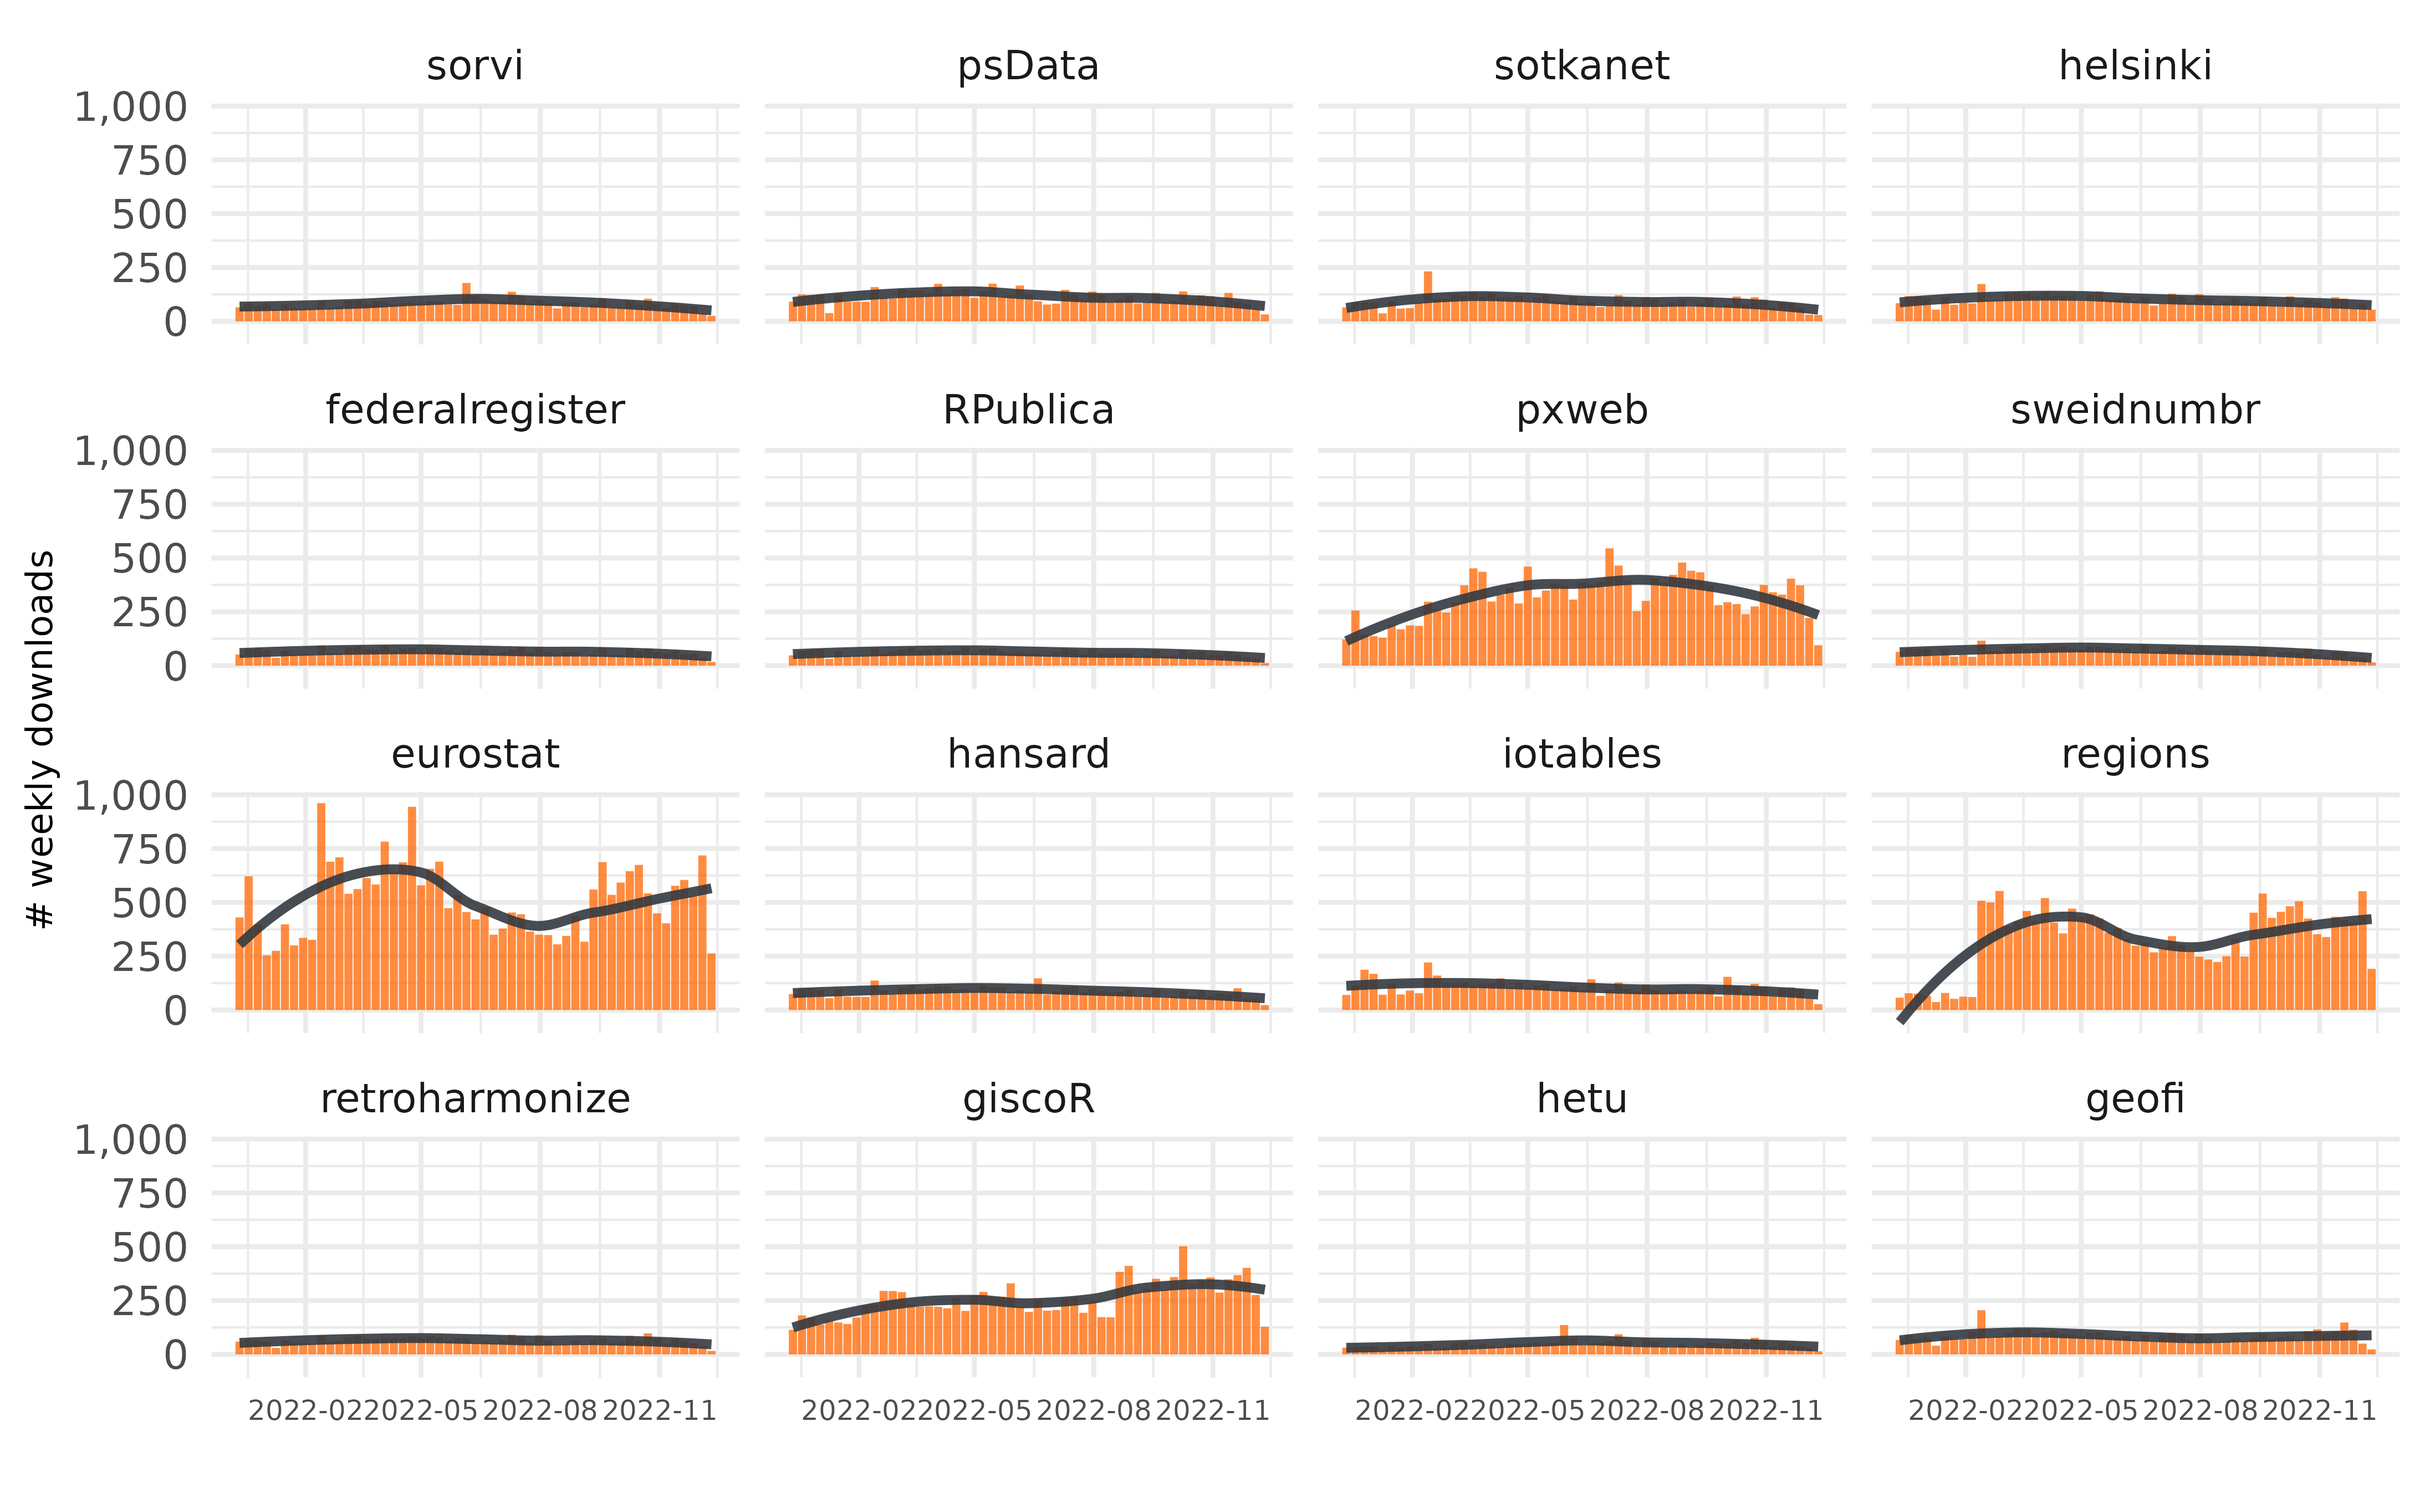
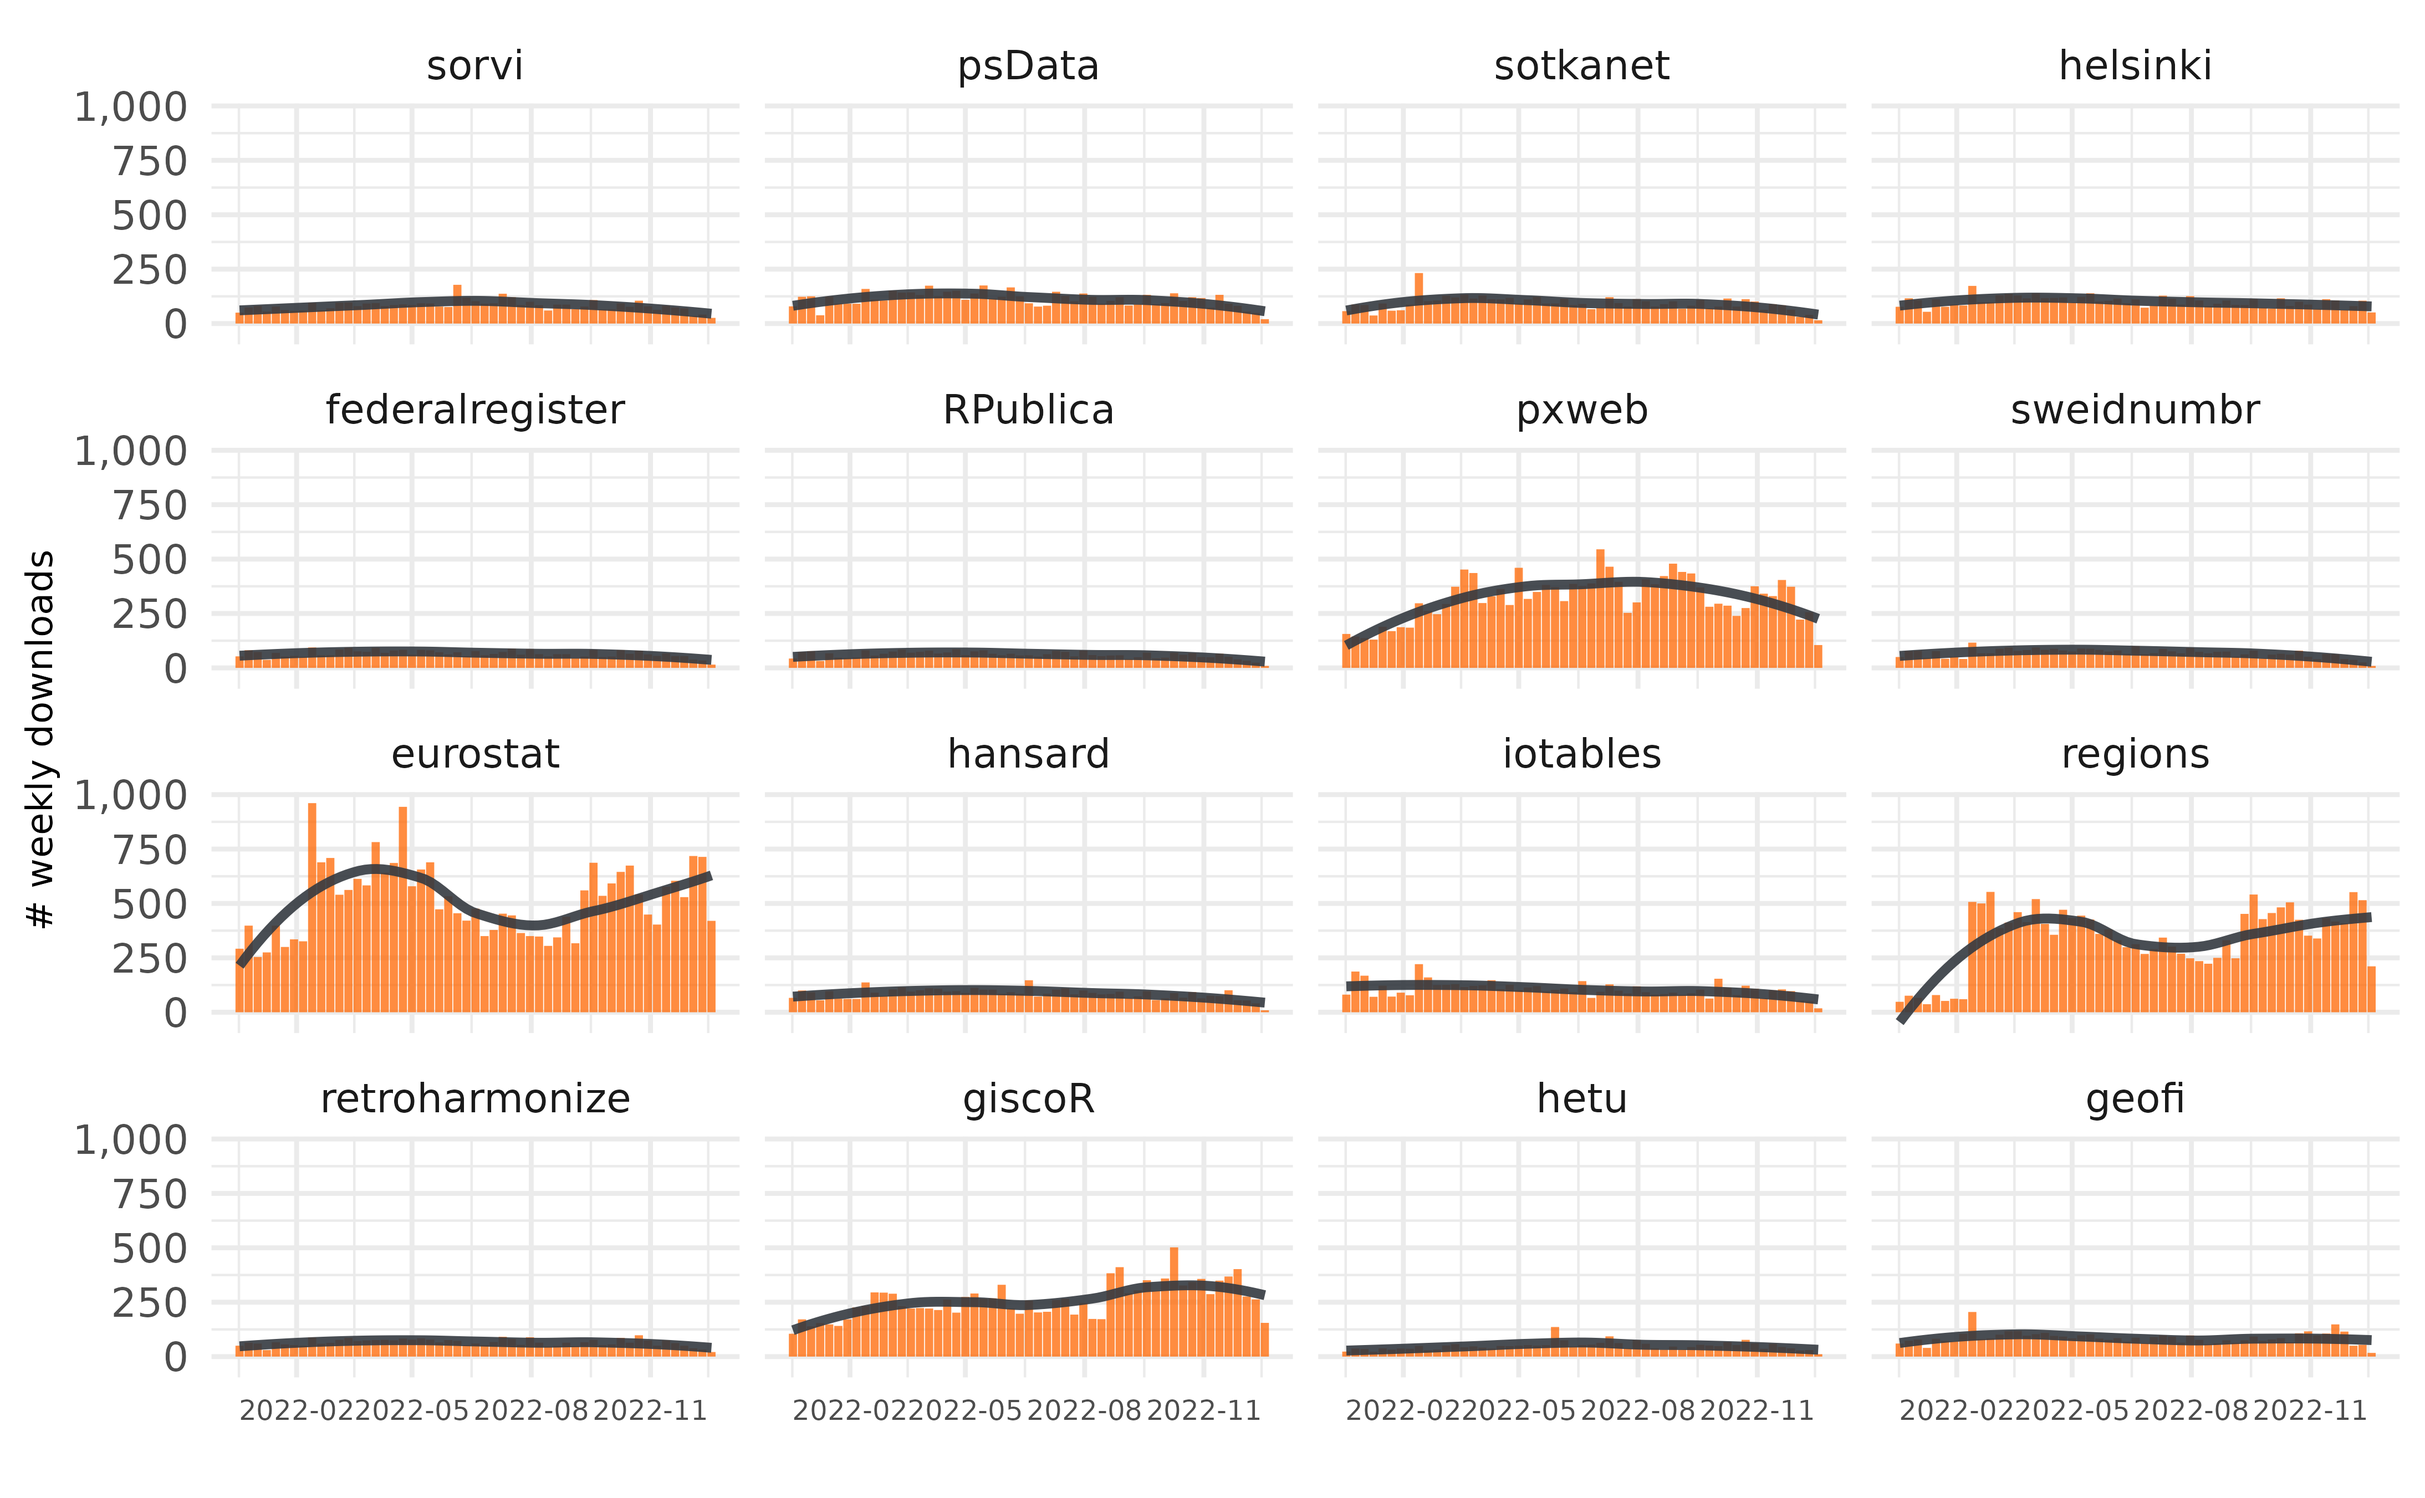
Built site for rogtemplate: 0.0.2.9000@bdcdba0

diff --git a/articles/downloads.html b/articles/downloads.html
@@ -94,7 +94,7 @@
 
     
     
-<p><em>Updated: 08 Dec 2022</em></p>
+<p><em>Updated: 15 Dec 2022</em></p>
 <p>Downloads of rOpenGov packages from CRAN.</p>
 <div class="section level2">
 <h2 id="downloads">Downloads<a class="anchor" aria-label="anchor" href="#downloads"></a>
@@ -110,7 +110,7 @@
 <h2 id="data">Data<a class="anchor" aria-label="anchor" href="#data"></a>
 </h2>
 <div id="station-table" class="reactable html-widget" style="width:auto;height:auto;"></div>
-<script type="application/json" data-for="station-table">{"x":{"tag":{"name":"Reactable","attribs":{"data":{"package":["geofi","hetu","giscoR","retroharmonize","regions","iotables","hansard","eurostat","sweidnumbr","pxweb","RPublica","federalregister","helsinki","sotkanet","psData","sorvi"],"on CRAN":["2021-02-20","2020-10-15","2020-10-05","2020-09-21","2020-06-04","2018-01-30","2016-10-31","2015-03-20","2014-09-05","2014-09-03","2014-05-09","2014-05-08","2014-04-13","2014-04-06","2014-02-23","2013-09-30"],"avg daily downloads":[15.3,8.3,33,11.5,27.5,16.4,17.8,60.6,11.6,21.9,10.2,11.4,13.2,11.5,12.9,12],"last day":[4,4,36,1,72,7,10,90,7,34,7,13,20,8,12,11],"last week":[39,23,215,28,384,45,36,512,25,186,22,28,83,38,43,36],"last month":[411,167,1427,229,1898,360,291,2555,207,1325,186,213,388,274,356,264],"last year":[4629,2567,13695,3475,17529,5649,4602,27200,3707,16907,3209,3500,5377,4957,6024,4407]},"columns":[{"id":"package","name":"package","type":"character"},{"id":"on CRAN","name":"on CRAN","type":"Date"},{"id":"avg daily downloads","name":"avg daily downloads","type":"numeric"},{"id":"last day","name":"last day","type":"numeric"},{"id":"last week","name":"last week","type":"numeric"},{"id":"last month","name":"last month","type":"numeric"},{"id":"last year","name":"last year","type":"numeric"}],"filterable":true,"searchable":true,"defaultPageSize":16,"showPageSizeOptions":true,"paginationType":"jump","striped":true,"elementId":"station-table","dataKey":"f10f6a1f9458759f157e4adeb8ca61ff"},"children":[]},"class":"reactR_markup"},"evals":[],"jsHooks":[]}</script>
+<script type="application/json" data-for="station-table">{"x":{"tag":{"name":"Reactable","attribs":{"data":{"package":["geofi","hetu","giscoR","retroharmonize","regions","iotables","hansard","eurostat","sweidnumbr","pxweb","RPublica","federalregister","helsinki","sotkanet","psData","sorvi"],"on CRAN":["2021-02-20","2020-10-15","2020-10-05","2020-09-21","2020-06-04","2018-01-30","2016-10-31","2015-03-20","2014-09-05","2014-09-03","2014-05-09","2014-05-08","2014-04-13","2014-04-06","2014-02-23","2013-09-30"],"avg daily downloads":[15.2,8.3,33,11.5,27.8,16.4,17.8,60.8,11.6,21.9,10.2,11.4,13.2,11.5,12.8,12],"last day":[4,4,69,12,78,8,2,163,2,43,1,7,14,1,8,9],"last week":[31,20,222,30,436,32,23,730,15,210,14,26,84,20,26,35],"last month":[365,140,1343,185,2005,299,243,2856,162,1281,142,178,381,208,258,223],"last year":[4580,2553,13795,3432,17977,5586,4519,27312,3631,16951,3158,3456,5355,4886,5924,4352]},"columns":[{"id":"package","name":"package","type":"character"},{"id":"on CRAN","name":"on CRAN","type":"Date"},{"id":"avg daily downloads","name":"avg daily downloads","type":"numeric"},{"id":"last day","name":"last day","type":"numeric"},{"id":"last week","name":"last week","type":"numeric"},{"id":"last month","name":"last month","type":"numeric"},{"id":"last year","name":"last year","type":"numeric"}],"filterable":true,"searchable":true,"defaultPageSize":16,"showPageSizeOptions":true,"paginationType":"jump","striped":true,"elementId":"station-table","dataKey":"371dbddd5324d1055ff9aa93ddf24ba5"},"children":[]},"class":"reactR_markup"},"evals":[],"jsHooks":[]}</script>
 </div>
   </main><aside class="col-md-3"><nav id="toc"><h2>On this page</h2>
     </nav></aside>

diff --git a/reference/rog_logo.html b/reference/rog_logo.html
@@ -121,7 +121,7 @@ would run <code><a href="https://usethis.r-lib.org/reference/use_logo.html" clas
 <span class="r-in"><span><span class="va">tmp</span> <span class="op">&lt;-</span> <span class="fu"><a href="https://rdrr.io/r/base/tempfile.html" class="external-link">tempfile</a></span><span class="op">(</span>fileext <span class="op">=</span> <span class="st">".png"</span><span class="op">)</span></span></span>
 <span class="r-in"><span><span class="fu">rog_logo</span><span class="op">(</span><span class="st">"test a package"</span>, <span class="va">tmp</span>, overwrite <span class="op">=</span> <span class="cn">FALSE</span>, favicons <span class="op">=</span> <span class="cn">FALSE</span><span class="op">)</span></span></span>
 <span class="r-msg co"><span class="r-pr">#&gt;</span> B612 Mono font loaded</span>
-<span class="r-msg co"><span class="r-pr">#&gt;</span> Logo created on /tmp/RtmpRytLpl/file1b586752b7f2.png</span>
+<span class="r-msg co"><span class="r-pr">#&gt;</span> Logo created on /tmp/RtmpVcgDWa/file1bcc2df30cc7.png</span>
 <span class="r-in"><span></span></span>
 <span class="r-in"><span><span class="co"># Display</span></span></span>
 <span class="r-in"><span><span class="va">logo</span> <span class="op">&lt;-</span> <span class="fu">magick</span><span class="fu">::</span><span class="fu"><a href="https://docs.ropensci.org/magick/reference/editing.html" class="external-link">image_read</a></span><span class="op">(</span><span class="va">tmp</span><span class="op">)</span></span></span>
